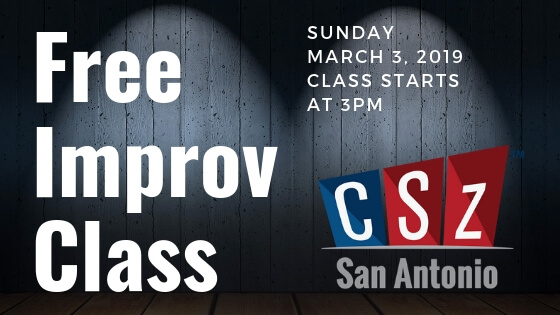
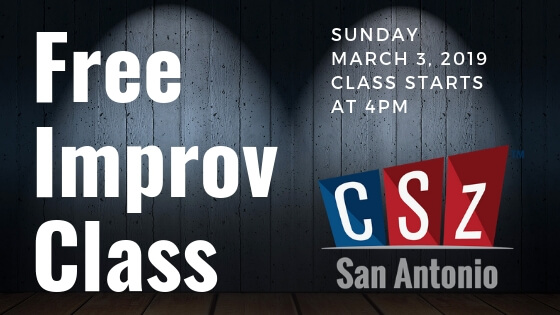
moving free improv class back to 4pm

Changed region(s): [[0.5464, 0.0857, 0.8804, 0.2857], [0.5464, 0.3143, 0.7286, 0.3714]]

diff --git a/content/freeimprovworkshop.md b/content/freeimprovworkshop.md
@@ -5,12 +5,12 @@ cta_link: https://www.eventbrite.com/e/copy-of-free-improv-comedy-workshop-intro
 date: "2018-11-26T10:43:47-06:00"
 description: Come check out what this Improv thing is!! It's a free workshop to see
   just how fun improv is.
-end_date: "2019-03-03T16:00:40-06:00"
+end_date: "2019-03-03T17:00:40-06:00"
 featured: "true"
 featured_image: /images/freeimprovclass.jpg
 images:
 - /images/freeimprovclass.jpg
-start_date: "2019-03-03T15:00:40-06:00"
+start_date: "2019-03-03T16:00:40-06:00"
 title: Free Improv Workshop
 ---
 
